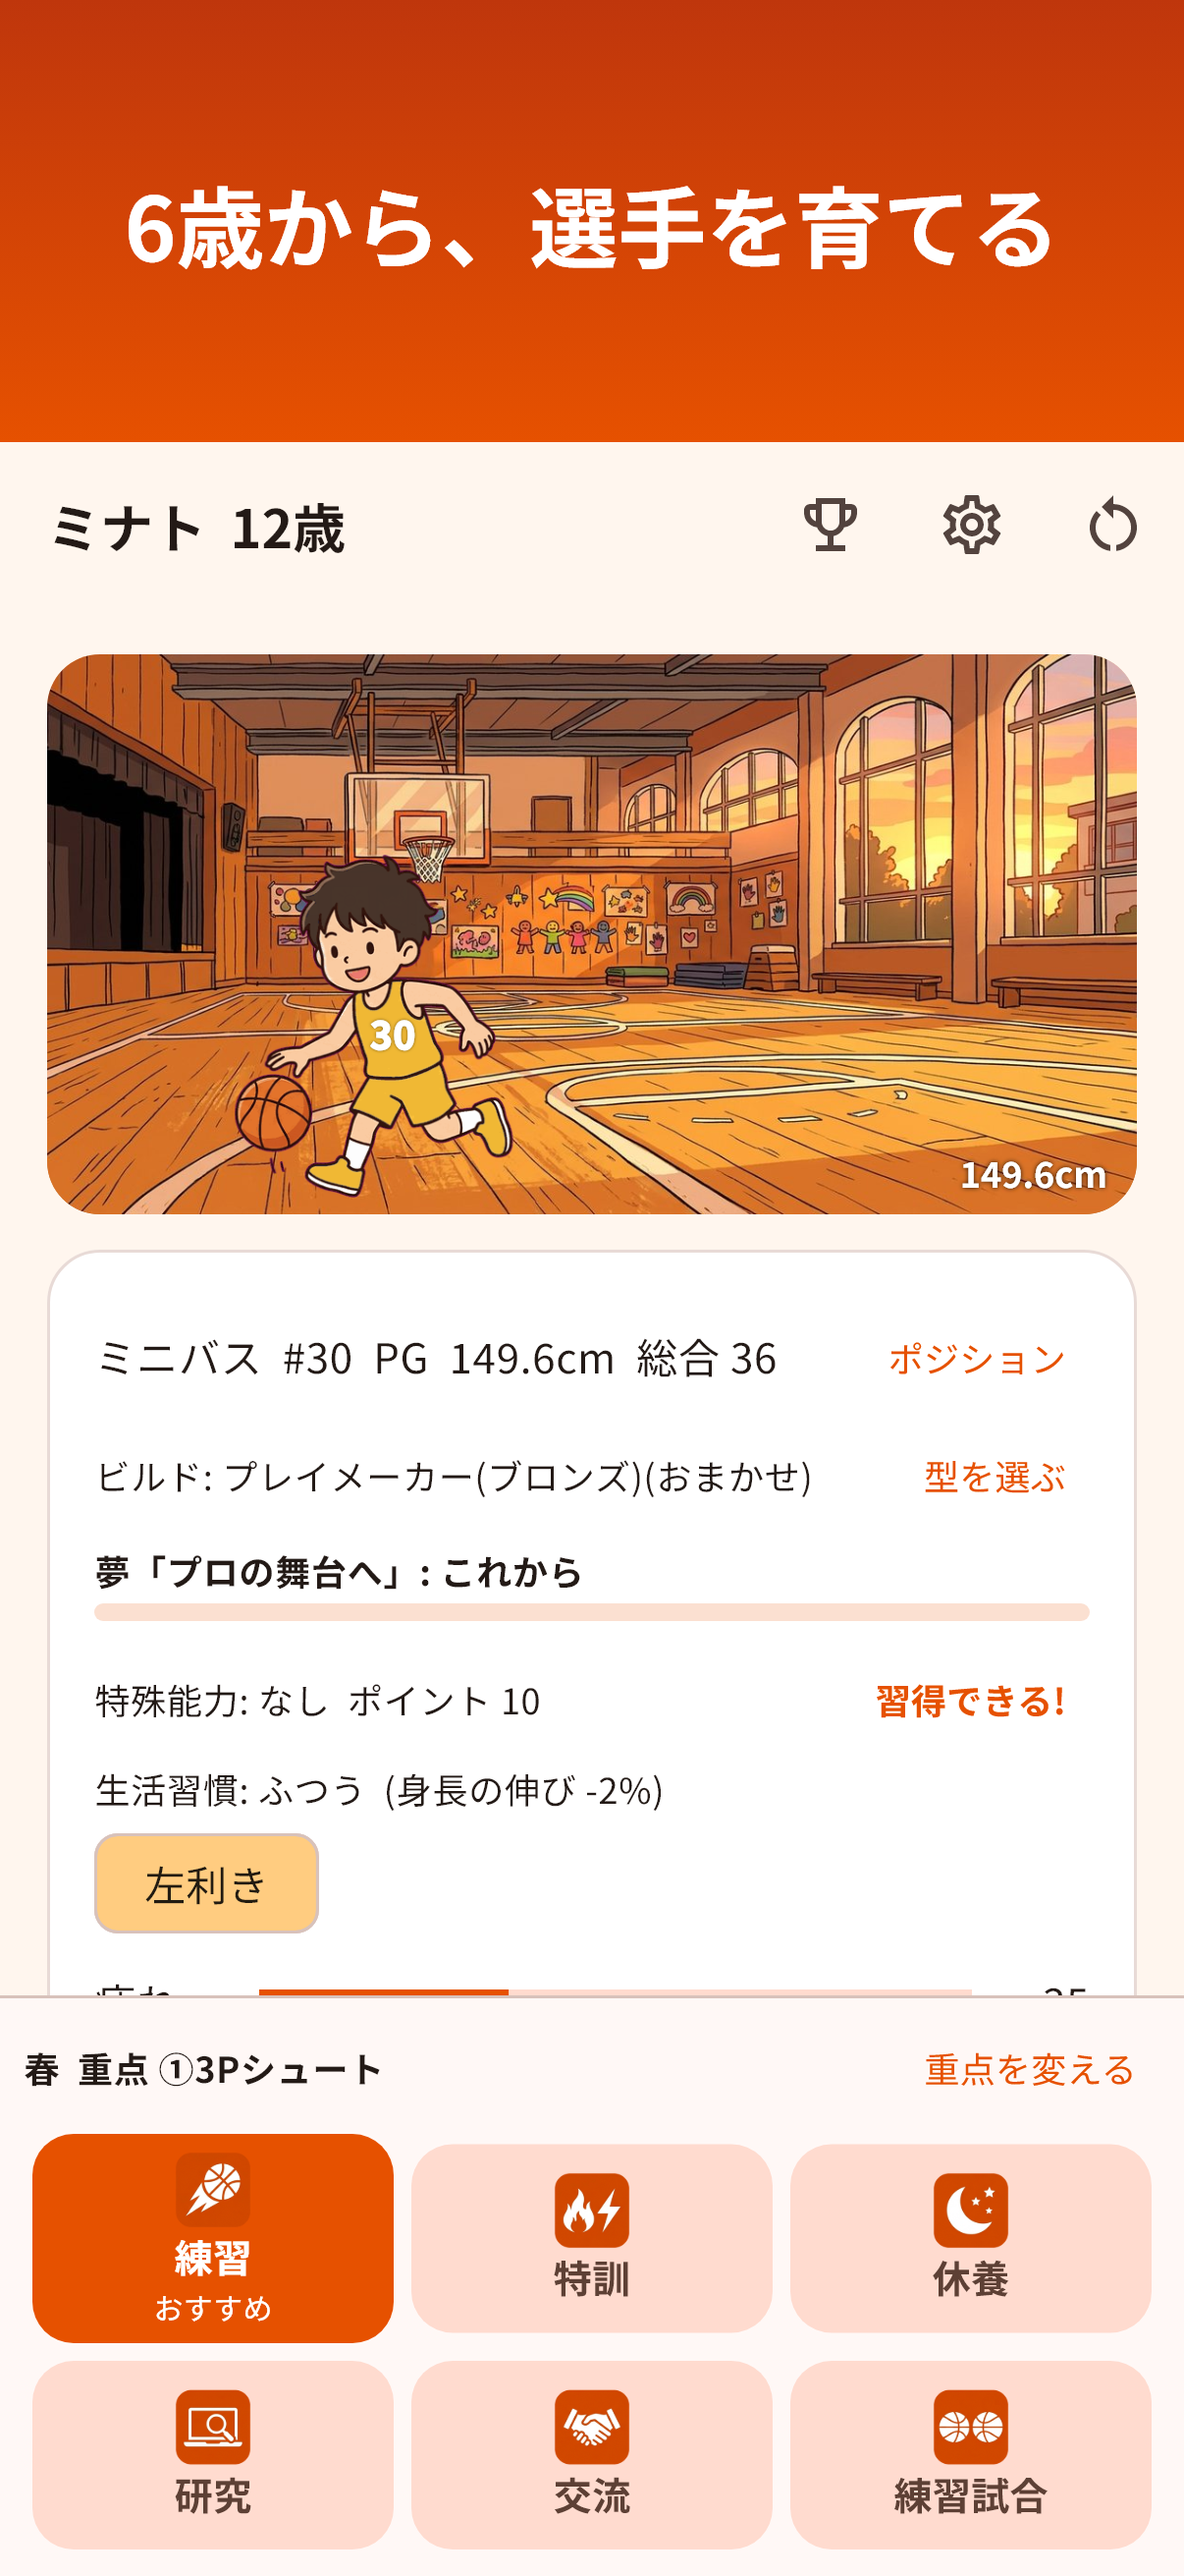
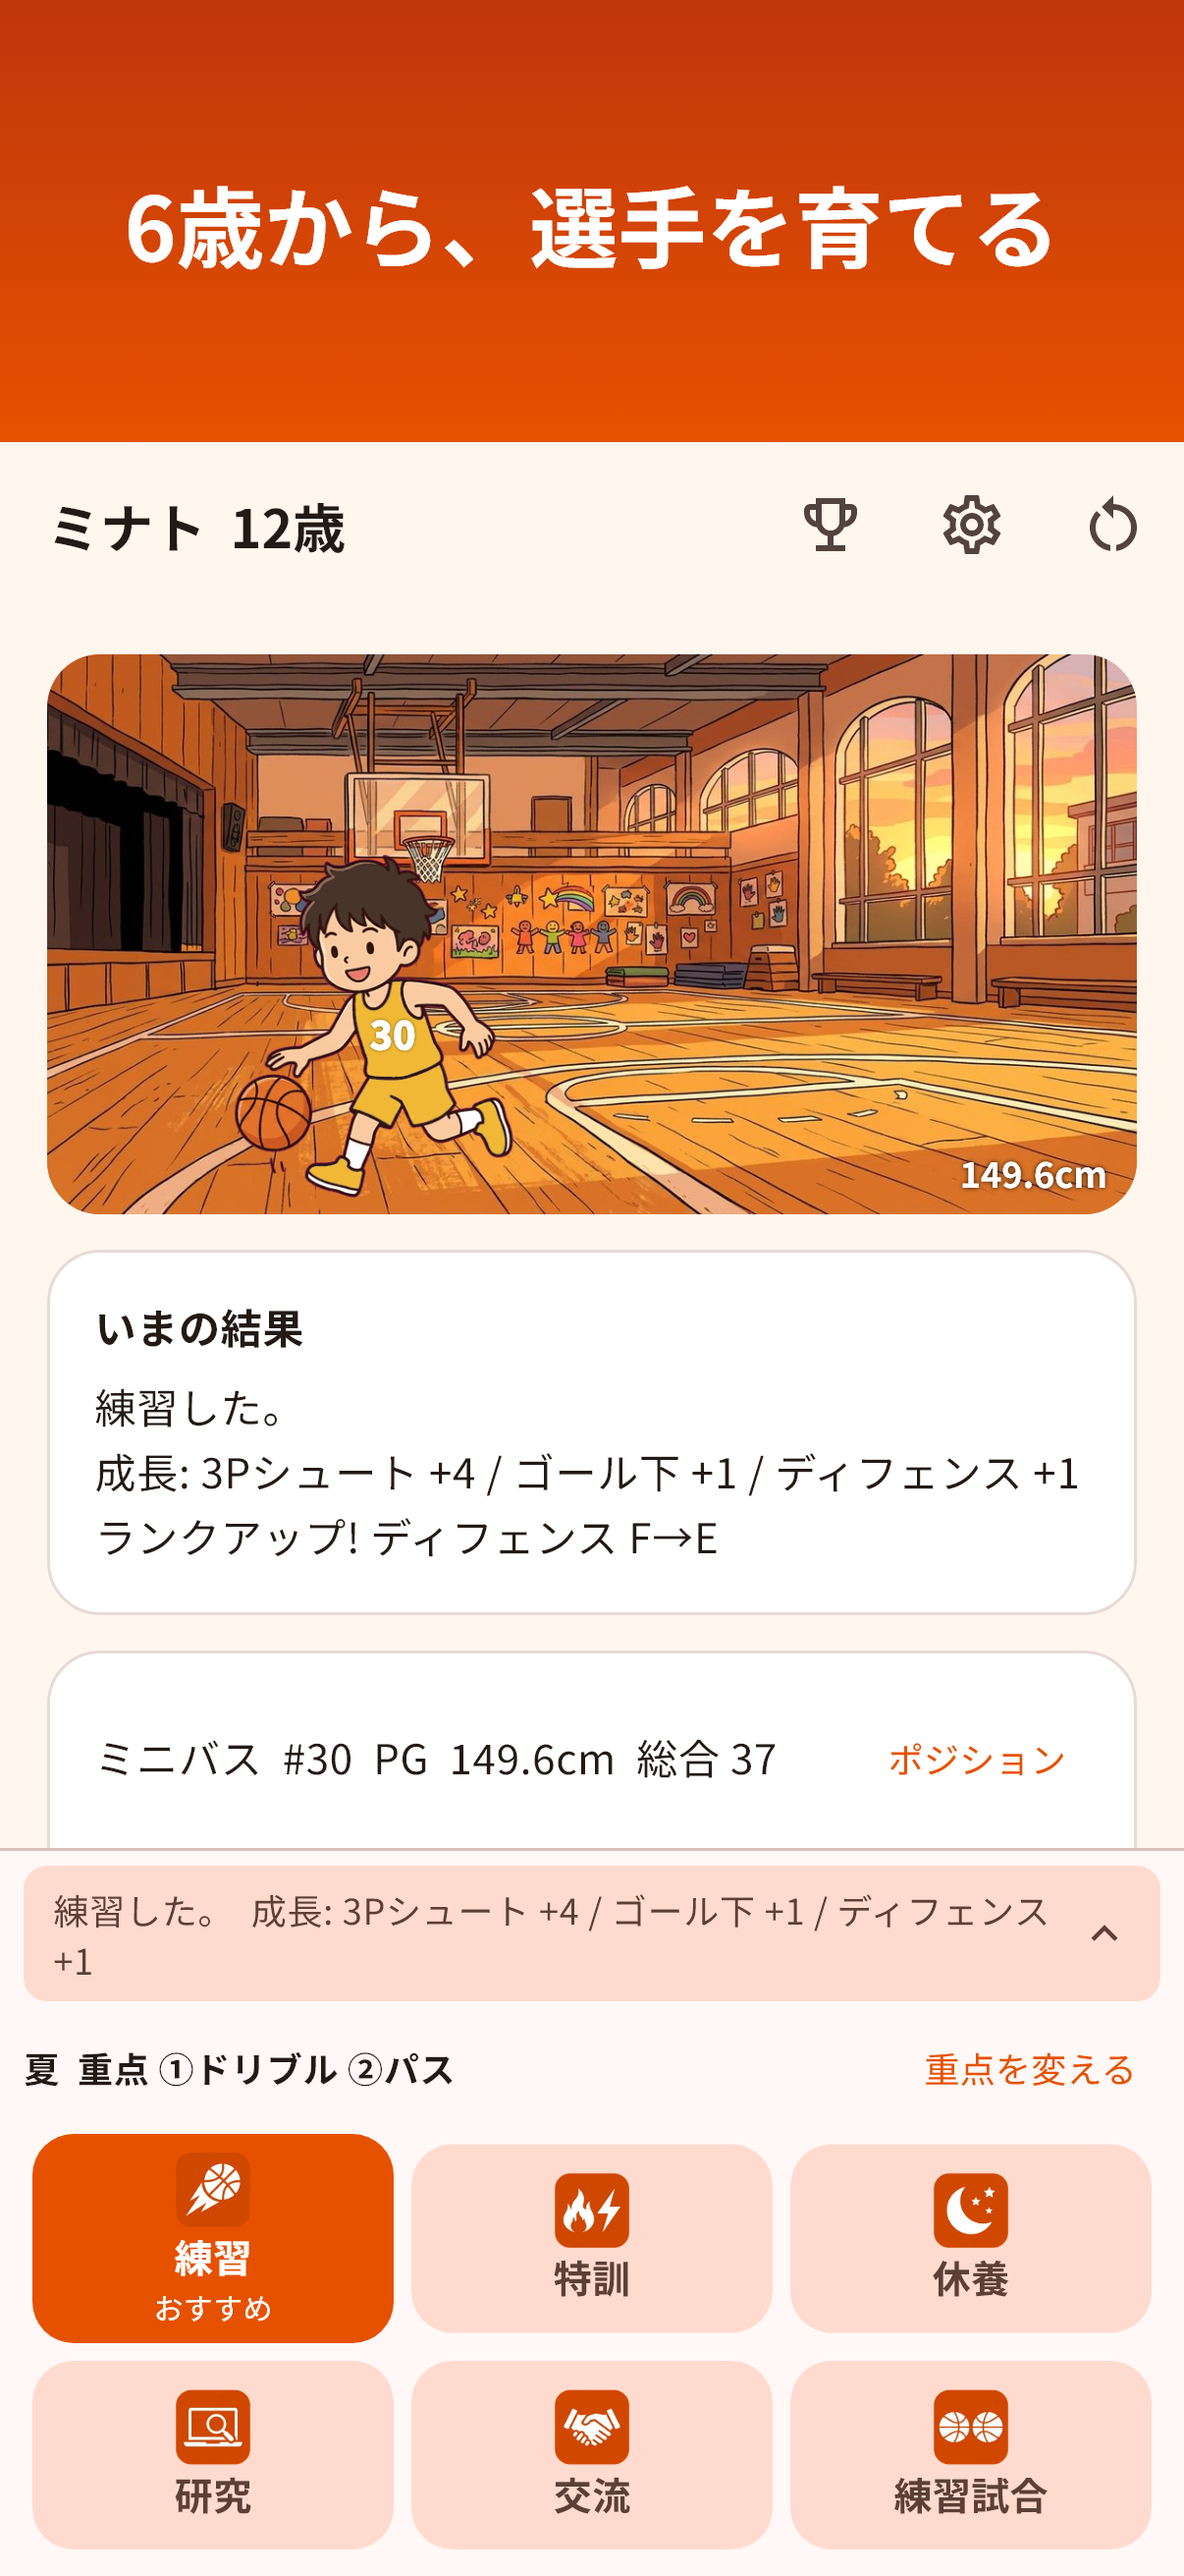
basketball-career: 押した結果をボタンのすぐ上に出す
下のボタンを押しても結果のカードが一覧の中ほどにあって見えなかった。
下のバーの上に結果の帯(2行まで)を出し、押すと結果のカードへ戻る。
結果・大会・知らせのカードは一覧のいちばん上(絵のすぐ下)へ移した。
掲載画像の1枚目は春に練習した後の画面にした。

Changed region(s): [[0.0, 0.4943, 0.9818, 0.8341], [0.767, 0.5561, 0.8897, 0.587]]

diff --git a/projects/basketball-career/lib/ui/game_screen.dart b/projects/basketball-career/lib/ui/game_screen.dart
@@ -116,6 +116,8 @@ class _SeasonView extends StatefulWidget {
 class _SeasonViewState extends State<_SeasonView> {
   /// 重点などの設定のカード(下のボタンの「重点を変える」から、ここまで送る)。
   final _settingsKey = GlobalKey();
+  /// 「いまの結果」のカード(下の結果の帯から、ここまで送る)。
+  final _recentKey = GlobalKey();
   final _scroll = ScrollController();
 
   @override
@@ -129,8 +131,23 @@ class _SeasonViewState extends State<_SeasonView> {
     if (_settingsKey.currentContext == null && _scroll.hasClients) {
       await _scroll.animateTo(_scroll.position.maxScrollExtent,
           duration: const Duration(milliseconds: 250), curve: Curves.easeOut);
+      await WidgetsBinding.instance.endOfFrame; // 送った先のカードが作られるのを待つ
     }
     final ctx = _settingsKey.currentContext;
+    if (ctx != null && ctx.mounted) {
+      await Scrollable.ensureVisible(ctx,
+          duration: const Duration(milliseconds: 250), curve: Curves.easeOut);
+    }
+  }
+
+  /// 「いまの結果」のカードまで送る。上の方にあるので、まだ作られていなければ先に一番上へ戻してから合わせる。
+  Future<void> _showRecent() async {
+    if (_recentKey.currentContext == null && _scroll.hasClients) {
+      await _scroll.animateTo(0,
+          duration: const Duration(milliseconds: 250), curve: Curves.easeOut);
+      await WidgetsBinding.instance.endOfFrame; // 送った先のカードが作られるのを待つ
+    }
+    final ctx = _recentKey.currentContext;
     if (ctx != null && ctx.mounted) {
       await Scrollable.ensureVisible(ctx,
           duration: const Duration(milliseconds: 250), curve: Curves.easeOut);
@@ -151,6 +168,7 @@ class _SeasonViewState extends State<_SeasonView> {
           controller: c,
           game: g,
           onShowSettings: _showSettings,
+          onShowRecent: _showRecent,
           canChooseAction: (a) => canChoose(a, cond),
         ),
       ],
@@ -164,16 +182,13 @@ class _SeasonViewState extends State<_SeasonView> {
       children: [
         CourtHeader(game: g),
         const SizedBox(height: 12),
-        _PlayerCard(
-            game: g,
-            onPickStyle: () => showStylePicker(context, c),
-            onPickSpecial: () => showSpecialPicker(context, c),
-            onPickPosition: () => showPositionPicker(context, c)),
-        const SizedBox(height: 12),
-        _GoalCard(controller: c, game: g),
-        const SizedBox(height: 12),
+        // 押した結果は、いちばん上(絵のすぐ下)に出す。下の帯を押すとここへ戻る。
         if (c.pathMessage != null) ...[
           _Note(text: c.pathMessage!),
+          const SizedBox(height: 12),
+        ],
+        if (c.recent.isNotEmpty) ...[
+          _RecentCard(key: _recentKey, lines: c.recent),
           const SizedBox(height: 12),
         ],
         if (c.lastTournament != null) ...[
@@ -184,10 +199,14 @@ class _SeasonViewState extends State<_SeasonView> {
               teamName: g.teamLabel),
           const SizedBox(height: 12),
         ],
-        if (c.recent.isNotEmpty) ...[
-          _RecentCard(lines: c.recent),
-          const SizedBox(height: 12),
-        ],
+        _PlayerCard(
+            game: g,
+            onPickStyle: () => showStylePicker(context, c),
+            onPickSpecial: () => showSpecialPicker(context, c),
+            onPickPosition: () => showPositionPicker(context, c)),
+        const SizedBox(height: 12),
+        _GoalCard(controller: c, game: g),
+        const SizedBox(height: 12),
         _AbilityCard(game: g),
         const SizedBox(height: 12),
         Card(
@@ -535,11 +554,13 @@ class _ActionBar extends StatelessWidget {
     required this.controller,
     required this.game,
     required this.onShowSettings,
+    required this.onShowRecent,
     required this.canChooseAction,
   });
   final GameController controller;
   final Game game;
   final VoidCallback onShowSettings;
+  final VoidCallback onShowRecent;
   final bool Function(Action) canChooseAction;
 
   @override
@@ -596,6 +617,34 @@ class _ActionBar extends StatelessWidget {
           child: Column(
             mainAxisSize: MainAxisSize.min,
             children: [
+              // 押した結果を、ボタンのすぐ上で読めるように(結果のカードは一覧の上の方にあって見えないことが多い)。
+              if (c.recent.isNotEmpty)
+                InkWell(
+                  onTap: onShowRecent,
+                  borderRadius: BorderRadius.circular(8),
+                  child: Container(
+                    width: double.infinity,
+                    margin: const EdgeInsets.only(top: 2, bottom: 2),
+                    padding: const EdgeInsets.symmetric(horizontal: 10, vertical: 6),
+                    decoration: BoxDecoration(
+                      color: cs.secondaryContainer,
+                      borderRadius: BorderRadius.circular(8),
+                    ),
+                    child: Row(
+                      children: [
+                        Expanded(
+                          child: Text(
+                            resultStripText(c.recent),
+                            maxLines: 2,
+                            overflow: TextOverflow.ellipsis,
+                            style: TextStyle(fontSize: 12, color: cs.onSecondaryContainer),
+                          ),
+                        ),
+                        Icon(Icons.expand_less, size: 18, color: cs.onSecondaryContainer),
+                      ],
+                    ),
+                  ),
+                ),
               Row(
                 children: [
                   Expanded(
@@ -1081,8 +1130,12 @@ class _MatchRow extends StatelessWidget {
   }
 }
 
+/// 下の結果の帯に出す短い文。最初の2行(「練習した。」と「成長: …」など)をつなぐ。
+@visibleForTesting
+String resultStripText(List<String> lines) => lines.take(2).join('  ');
+
 class _RecentCard extends StatelessWidget {
-  const _RecentCard({required this.lines});
+  const _RecentCard({super.key, required this.lines});
   final List<String> lines;
 
   @override

diff --git a/projects/basketball-career/test/ui/app_test.dart b/projects/basketball-career/test/ui/app_test.dart
@@ -9,6 +9,7 @@ import 'package:basketball_career/game/player.dart';
 import 'package:basketball_career/game/rival.dart';
 import 'package:basketball_career/ui/app.dart';
 import 'package:basketball_career/ui/controller.dart';
+import 'package:basketball_career/ui/game_screen.dart' show resultStripText;
 import 'package:basketball_career/ui/milestone_dialog.dart';
 import 'package:flutter/material.dart' hide Action, Route;
 import 'package:flutter/services.dart';
@@ -190,7 +191,7 @@ void main() {
     await tester.tap(find.text('遊びに行く'));
     await tester.pumpAndSettle();
     expect(c.game!.pendingEventId, isNull);
-    expect(find.textContaining('「遊びに行く」を選んだ'), findsOneWidget);
+    expect(find.textContaining('「遊びに行く」を選んだ'), findsWidgets); // 結果のカードと下の帯
     expect(find.text('春の過ごし方'), findsOneWidget);
   });
 
@@ -367,15 +368,33 @@ void main() {
       final r = tester.getRect(f);
       expect(r.bottom, lessThanOrEqualTo(844), reason: '${a.label} が画面の外にある');
     }
-    final slot = c.game!.slot;
-    await tester.tap(find.text('休養'));
-    await tester.pumpAndSettle();
-    expect(c.game!.slot, isNot(slot), reason: 'スクロールせずに押せて、季節が進む');
     // 「重点を変える」で、重点の設定まで送られる。
     await tester.tap(find.text('重点を変える'));
     await tester.pumpAndSettle();
     final chip = tester.getRect(find.textContaining('① 大きく伸ばす能力'));
     expect(chip.top, lessThan(844));
+    // 下までスクロールしたまま練習しても(春なので大会は無い)、結果はボタンのすぐ上の帯で読める。
+    expect(c.game!.slot, 0);
+    await tester.tap(find.text('練習'));
+    await tester.pumpAndSettle();
+    expect(c.game!.slot, 1, reason: 'スクロールせずに押せて、季節が進む');
+    final strip = find.textContaining('練習した。');
+    expect(strip, findsWidgets);
+    final stripRect = tester.getRect(strip.last);
+    expect(stripRect.bottom, lessThanOrEqualTo(844));
+    expect(stripRect.top, greaterThan(844 - 260), reason: '帯は画面の下(ボタンの上)にある');
+    expect(resultStripText(c.recent), contains('成長'), reason: '何が伸びたかも帯に出る');
+    // 帯を押すと「いまの結果」のカードまで戻る。
+    await tester.tap(strip.last);
+    await tester.pumpAndSettle();
+    final card = tester.getRect(find.text('いまの結果'));
+    expect(card.top, greaterThanOrEqualTo(0));
+    expect(card.top, lessThan(844 - 260));
+  });
+
+  test('結果の帯は最初の2行をつなぐ', () {
+    expect(resultStripText(const ['練習した。', '成長: 3Pシュート +2', 'ほか']), '練習した。  成長: 3Pシュート +2');
+    expect(resultStripText(const ['休養した。']), '休養した。');
   });
 
   testWidgets('勝負どころ・出来事の選択肢も、ふつうのスマホの画面に収まる(スクロールしなくても押せる)', (tester) async {

diff --git a/projects/basketball-career/tool/screenshots/capture_test.dart b/projects/basketball-career/tool/screenshots/capture_test.dart
@@ -247,13 +247,15 @@ void main() {
     const green = (Color(0xFF004D40), Color(0xFF00796B));
     const purple = (Color(0xFF4A148C), Color(0xFF7B1FA2));
 
-    // 1. 育成画面: 6年ぶんの成長のあとの、年のはじめ(目標の選択が出る)。
+    // 1. 育成画面: 6年ぶんの成長のあと、春に練習した直後。
     final a = Game.start('ミナト', rng: Random(11), events: false);
     _play(a, untilAge: 12);
     while (a.slot != 0 && a.phase == Phase.season) {
       a.choose(Action.rest, recommendedFocus(a.player));
     }
-    await _shoot(t, '01_season', '6歳から、選手を育てる', _controller(a), orange);
+    // 春に1回練習した後(下の帯に「練習した。成長: …」が出る)。
+    final c1 = _controller(a)..act(Action.practice);
+    await _shoot(t, '01_season', '6歳から、選手を育てる', c1, orange);
 
     // 2. 勝負どころ: ライバル戦(タイムアウトのボタンも出る)。
     GameController? clutch;

diff --git a/projects/basketball-career/CLAUDE.md b/projects/basketball-career/CLAUDE.md
@@ -148,6 +148,8 @@ baseball-manager の骨格（年齢で局面が変わる一代記・季節ごと
     **今年の伸び**: `Game.yearStart`（年のはじめの能力、保存あり）との差を、能力カードの値の横に緑の「+n」で出す。年末の結果に「今年の成長: 総合 52 → 58(+6) / いちばん伸びた能力 … / 身長 +…cm」（`lastYearSummary`、保存しない）。
   - **過ごし方のボタンを画面の下に固定(2026-10-26、ユーザー指摘「毎回スクロールしないとボタン押せないのが困る」)**: 育成画面の6つのボタンは、スクロールする一覧の外の `_ActionBar`(下端、上に細い線)に出す。見出しに「春 重点 ①… ②…」と「重点を変える」(押すと一覧の設定カードへスクロール。`ListView` は画面外を作らないので `ScrollController` で一番下へ動かしてから `ensureVisible`)。重点の選び方とおすすめで1年/3年は一覧の中のまま。
     `test/ui/app_test.dart` が 390x844 で、過ごし方・勝負どころ・ハーフタイム・出来事・進路のボタンがスクロールなしで画面内にあることを検査。**`Material(elevation:)` は撮影画像で太い黒い帯になる**ので境目は線にした。
+  - **押した結果をボタンのすぐ上に(2026-10-26、改善の繰り返し)**: 下のボタンを押しても、結果のカードは一覧の中ほどにあって見えなかった。→ 下のバーの上に結果の帯(`resultStripText`: 「練習した。 成長: …」の2行まで)を出し、押すと「いまの結果」のカードへ戻る。結果のカード・大会のカード・知らせは、一覧の**絵のすぐ下(いちばん上)**へ移した。
+    **落とし穴**: `ListView` は画面外を作らないので、カードが一覧の下の方にあると、上へ戻しても `GlobalKey` の context が無く `ensureVisible` できなかった(テストで発見)→ カードを上へ移し、送ったあと `endOfFrame` を待つ。掲載画像の1枚目は「春に1回練習した後」にして帯を写す。
   - **リーグの個人ランキング(2026-10-26)**: 大学・実業団・プロ(4試合以上)の大会カードに「リーグの個人ランキング: 得点5位・リバウンド12位・アシスト3位」(`TournamentResult.statRanks`)。他の選手は作らない目安: 個人タイトルの基準に届けば1位(得点王などと必ずそろう)、届かなければ基準に足りない割合1%ごとに1つ下(2〜40位)。
   - **大会の連戦の疲れ(2026-10-26)**: 6試合を超えて勝ち進んだ分(プレーオフ・決勝トーナメント)1試合あたり疲れ+2、最大12(`Game.tournamentFatigue`)。結果の行に「10試合の連戦で疲れが残った(疲れ +8)」。最初は全試合1.5(最大15)にしたら、おすすめのプロ入りが 70.6→67.0%(n=3000)に下がった(学生の大会でも休養が増えるため)ので、長い大会だけにした(70.2%)。**バランスの差を見るときは balance.dart の n を3000にする**(1000だと±2%ぶれて、変更の良し悪しを見誤った)。
   - **年のベストゲーム(2026-10-26)**: 大会ごとに一番の試合を一言で(`bestGameOf`: 得点＋リバウンド＋アシスト×1.5＋勝ち5)、`YearRecord.bestGame`(保存あり)。年末の「今年の成長」の行に「今年のベストゲーム: 31点11リバウンド vs 北斗高校(勝ち)」。
